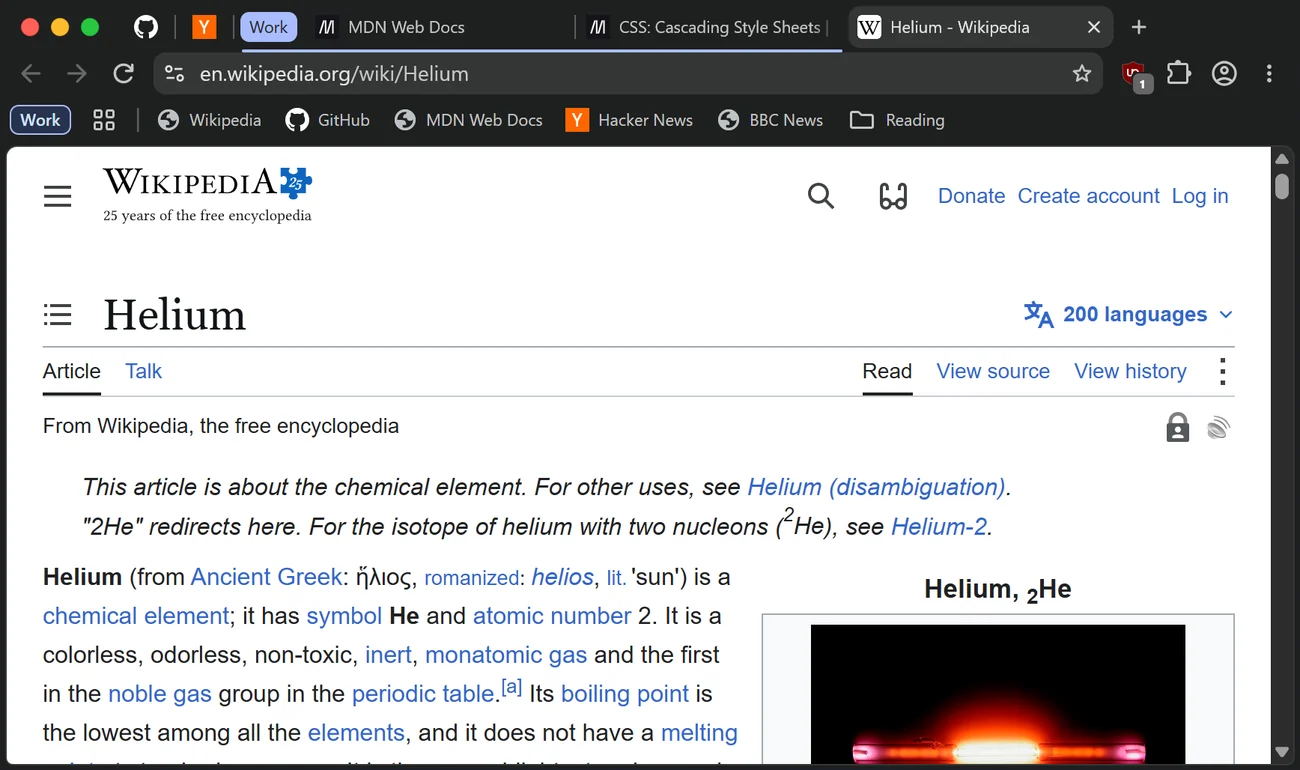
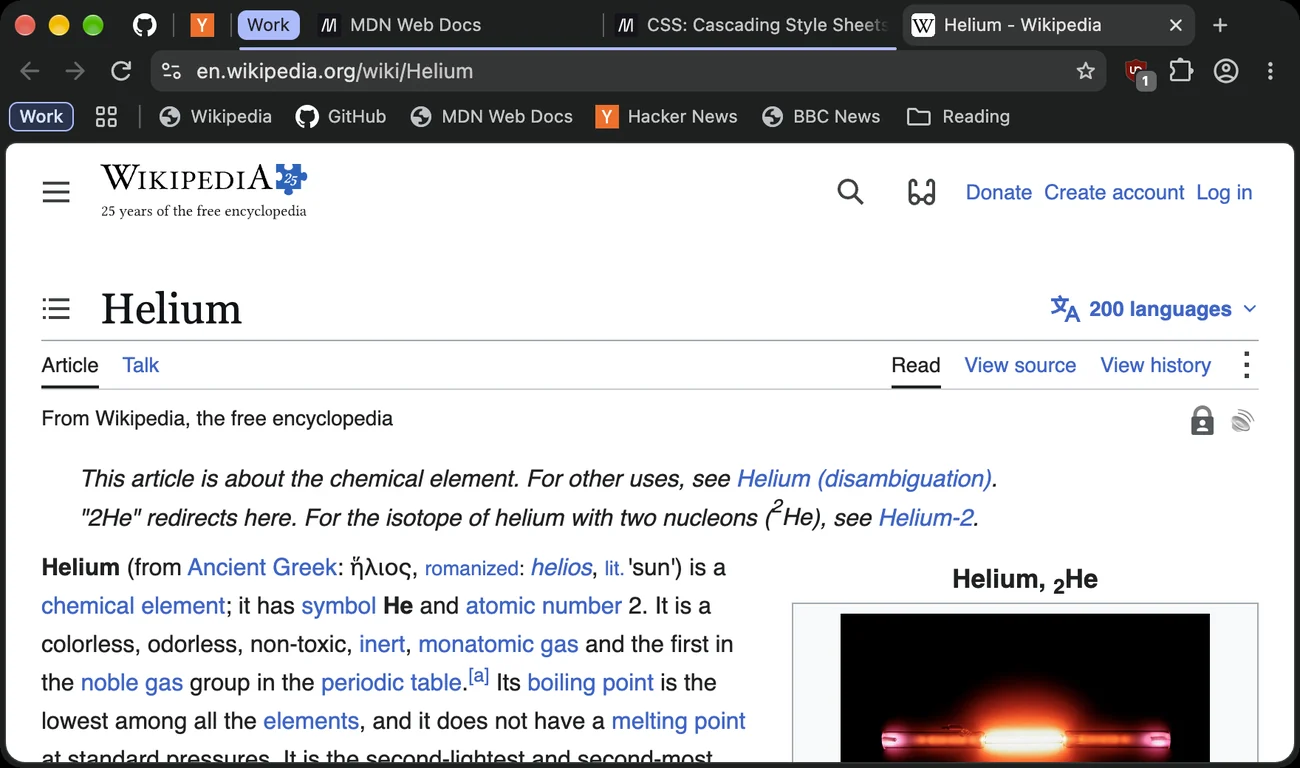
Real Mac pictures and fixes from the Mac test run
- Setup window: each computer shows Helium for its own system. The Mac
  pictures are real Mac captures (testing/lab/capture-helium-mac.sh, from
  the mac-check branch). The Mac extensions picture comes later.
- Capture scripts: the test probe removes itself before the extensions
  picture, so only real extensions show.
- Test Helium instances use a mock keychain and a basic password store:
  never the login Keychain on macOS.
- Mac computer name: "<name>'s MacBook Air" takes the person's name.
  Before, it kept the name of the Mac's first owner.
- Fix a flaky profile test: it used a new clock for each sync. The
  engine keeps its clock, so only the test was wrong.

Changed region(s): [[0.0, 0.0, 1.0, 1.0], [0.0, 0.5938, 0.7692, 1.0], [0.9846, 0.0, 1.0, 0.0312]]

diff --git a/internal/ui/page.html b/internal/ui/page.html
@@ -260,12 +260,19 @@ $("theme").onclick = () => {
 /* Real Helium pictures (captured from Helium: testing/lab/capture-helium.ps1). */
 const shotURL = (name) => `/img/${name}-${dark() ? "dark" : "light"}.webp`;
 const shot = (name, alt) => `<img class="shot" data-shot="${name}" src="${shotURL(name)}" width="1300" height="770" alt="${esc(alt)}" decoding="async">`;
-// Where each item is in the picture, in pixels of the 1736 × 1028 capture.
-const AREA = {
-  tabs: ["window", [0, 0, 1390, 70]], bookmarks: ["window", [0, 128, 1290, 192]], history: ["history", [56, 355, 1650, 872]],
-  settings: ["settings", [172, 437, 1534, 1022]], extensions: ["extensions", [452, 486, 1254, 808]],
+// Pictures per system. Each item's place, in pixels of the capture.
+const GEOM = {
+  win: { w: 1736, h: 1028, tabs: [0, 0, 1390, 70], bookmarks: [0, 128, 1290, 192], history: [56, 355, 1650, 872], settings: [172, 437, 1534, 1022], extensions: [452, 486, 1254, 1016] },
+  mac: { w: 1760, h: 1040, tabs: [0, 0, 1690, 68], bookmarks: [0, 126, 1390, 190], history: [54, 352, 1706, 870], settings: [198, 434, 1562, 1035], extensions: null },
 };
-const markStyle = ([x0, y0, x1, y1]) => `left:${x0 / 17.36}%;top:${y0 / 10.28}%;width:${(x1 - x0) / 17.36}%;height:${(y1 - y0) / 10.28}%`;
+const PAGE = { tabs: "window", bookmarks: "window", history: "history", settings: "settings", extensions: "extensions" };
+const sys = (mac) => (mac ? "mac" : "win");
+// The Mac extensions picture is not ready yet: Mac uses the Windows one.
+function picture(kind, mac) {
+  const tag = kind === "extensions" && mac && !GEOM.mac.extensions ? "win" : sys(mac);
+  return { name: `${PAGE[kind]}-${tag}`, g: GEOM[tag], box: GEOM[tag][kind] };
+}
+const markStyle = (g, [x0, y0, x1, y1]) => `left:${(x0 / g.w) * 100}%;top:${(y0 / g.h) * 100}%;width:${((x1 - x0) / g.w) * 100}%;height:${((y1 - y0) / g.h) * 100}%`;
 
 /* Words */
 const firstName = () => (state?.personName || "").trim().split(/\s+/)[0] || "";
@@ -310,7 +317,7 @@ function vHello() {
   const mac = state.os === "darwin";
   render("hello", `<div class="panel">
     <div class="stage hero" aria-hidden="true" style="border-radius:13px 13px 0 0">
-      <div class="shot-wrap back">${shot(mac ? "window" : "window-mac", "")}</div><div class="shot-wrap front">${shot(mac ? "window-mac" : "window", "")}</div>
+      <div class="shot-wrap back">${shot(mac ? "window-win" : "window-mac", "")}</div><div class="shot-wrap front">${shot(mac ? "window-mac" : "window-win", "")}</div>
     </div>
     <div class="pad gap">
       <div class="stack"><h1>What is your name?</h1><p class="t2">Helium Syncer keeps Helium the same on your Mac and your Windows computer. Your name stays on this computer.</p></div>
@@ -358,9 +365,9 @@ function vHow() {
   const name = firstName(), mac = state.os === "darwin";
   render("how", `<div class="panel">
     <div class="stage" style="border-radius:13px 13px 0 0"><div class="story" id="story" data-s="1">
-      <figure><div class="shot-wrap">${shot(mac ? "window-mac" : "window", "Helium on this computer")}<div class="closed" id="left-closed"><span>Helium is closed</span></div></div><figcaption>${svg("laptop")}This ${esc(thisKind())}</figcaption></figure>
+      <figure><div class="shot-wrap">${shot(mac ? "window-mac" : "window-win", "Helium on this computer")}<div class="closed" id="left-closed"><span>Helium is closed</span></div></div><figcaption>${svg("laptop")}This ${esc(thisKind())}</figcaption></figure>
       <div class="link-line" aria-hidden="true"><span class="token">${svg("lock")}</span></div>
-      <figure><div class="shot-wrap">${shot(mac ? "window" : "window-mac", "Helium on your other computer")}<div class="closed" id="right-closed"><span>Helium is closed</span></div></div><figcaption>${svg("laptop")}Your ${esc(otherKind())}</figcaption></figure>
+      <figure><div class="shot-wrap">${shot(mac ? "window-win" : "window-mac", "Helium on your other computer")}<div class="closed" id="right-closed"><span>Helium is closed</span></div></div><figcaption>${svg("laptop")}Your ${esc(otherKind())}</figcaption></figure>
     </div></div>
     <div class="pad gap">
       <h1>${name ? esc(name) + ", this" : "This"} is how it works</h1>
@@ -490,7 +497,7 @@ function wireKinds(prefix, onChange, onPick) {
 }
 function vWhat() {
   render("what", `<div class="panel">
-    <div class="stage" style="padding:20px 22px 22px;border-radius:13px 13px 0 0" aria-hidden="true"><div class="shot-wrap" id="what-shot">${shot("window", "")}<span class="mark" id="what-mark"></span></div></div>
+    <div class="stage" style="padding:20px 22px 22px;border-radius:13px 13px 0 0" aria-hidden="true"><div class="shot-wrap" id="what-shot">${shot(`window-${sys(state.os === "darwin")}`, "")}<span class="mark" id="what-mark"></span></div></div>
     <div class="pad gap">
       <div class="stack"><h1>What do you want to sync?</h1><p class="t2">You can change this later in Settings.</p></div>
       <div>${kindsHTML("k", state.off || [])}</div>
@@ -499,9 +506,9 @@ function vWhat() {
     </div>
   </div>`, () => {
     const pick = (k) => {
-      const [img, box] = AREA[k], el = $("what-shot").querySelector("img");
-      if (el.dataset.shot !== img) { el.dataset.shot = img; el.src = shotURL(img); }
-      $("what-mark").setAttribute("style", markStyle(box));
+      const pic = picture(k, state.os === "darwin"), el = $("what-shot").querySelector("img");
+      if (el.dataset.shot !== pic.name) { el.dataset.shot = pic.name; el.src = shotURL(pic.name); }
+      $("what-mark").setAttribute("style", markStyle(pic.g, pic.box));
       document.querySelectorAll(".kind").forEach((r) => r.setAttribute("aria-current", String(r.dataset.kind === k)));
     };
     wireKinds("k", null, pick); pick("bookmarks");

diff --git a/testing/lab/make-pictures.py b/testing/lab/make-pictures.py
@@ -1,59 +1,40 @@
-"""Turns the real Helium captures (testing/lab/capture-helium.ps1) into the
-pictures the setup window shows. Usage:
+"""Turns real Helium captures into the pictures the setup window shows.
 
-    python testing/lab/make-pictures.py <captures-dir> internal/ui/img
+    python testing/lab/make-pictures.py <windows-captures> <mac-captures> internal/ui/img
 
-Each picture is a whole Helium window. The setup window marks the part
-that matters (tab strip, bookmarks bar, ...) with a frame.
+Captures come from testing/lab/capture-helium.ps1 (Windows) and
+testing/lab/capture-helium-mac.sh (macOS): window, history, settings and
+extensions, each as <page>-<light|dark>.png, 1760 x 1040 (2x).
 
-The Mac window is the same Helium window with the macOS window buttons.
-Helium's own interface is the same on both systems.
+Output: <page>-win-<theme>.webp and <page>-mac-<theme>.webp. A Mac page
+that is missing is left out; the page then uses the Windows picture.
 """
 import os
 import sys
 
-from PIL import Image, ImageDraw
+from PIL import Image
 
-src, out = sys.argv[1], sys.argv[2]
+win_dir, mac_dir, out = sys.argv[1], sys.argv[2], sys.argv[3]
 os.makedirs(out, exist_ok=True)
 
-# The window inside a 2x capture (1760x1040). The left, right and bottom
-# edges are the Windows resize border, which is not part of the window.
-WINDOW = (12, 0, 1748, 1028)
+# The window inside each capture. On Windows the left, right and bottom
+# edges are the resize border, which is not part of the window.
+WINDOW = {"win": (12, 0, 1748, 1028), "mac": (0, 0, 1760, 1040)}
 WIDTH = 1300  # shown at about 650 px: sharp on 2x screens
 
 
 def save(img, name):
-    h = round(img.height * WIDTH / img.width)
-    img = img.resize((WIDTH, h), Image.LANCZOS)
+    img = img.resize((WIDTH, round(img.height * WIDTH / img.width)), Image.LANCZOS)
     path = os.path.join(out, name + ".webp")
     img.save(path, "WEBP", quality=86, method=6)
     print("saved", path, img.size, os.path.getsize(path) // 1024, "KB")
 
 
-def traffic_lights(strip):
-    """Paint the macOS window buttons on a 2x tab strip (supersampled)."""
-    ss = 4
-    w, h = strip.size
-    layer = Image.new("RGBA", (w * ss, h * ss), (0, 0, 0, 0))
-    d = ImageDraw.Draw(layer)
-    for i, (fill, ring) in enumerate([((255, 95, 87), (226, 70, 62)), ((254, 188, 46), (223, 158, 26)), ((40, 200, 64), (26, 170, 46))]):
-        cx, cy, r = (40 + 40 * i) * ss, 36 * ss, 12 * ss
-        d.ellipse((cx - r, cy - r, cx + r, cy + r), fill=ring)
-        d.ellipse((cx - r + ss, cy - r + ss, cx + r - ss, cy + r - ss), fill=fill)
-    strip.alpha_composite(layer.resize((w, h), Image.LANCZOS))
-
-
-for theme in ("light", "dark"):
-    for page in ("window", "history", "settings", "extensions"):
-        img = Image.open(os.path.join(src, f"{page}-{theme}.png")).convert("RGBA").crop(WINDOW)
-        save(img, f"{page}-{theme}")
-        if page == "window":
-            # Mac: macOS buttons on the left, no Windows buttons on the right.
-            w = img.width
-            strip = Image.new("RGBA", (w, 70), img.getpixel((w - 330, 8)))
-            strip.paste(img.crop((0, 3, 1400, 70)), (150, 3))  # rows 0-2: the Windows border line
-            traffic_lights(strip)
-            mac = img.copy()
-            mac.paste(strip, (0, 0))
-            save(mac, f"window-mac-{theme}")
+for tag, src in (("win", win_dir), ("mac", mac_dir)):
+    for theme in ("light", "dark"):
+        for page in ("window", "history", "settings", "extensions"):
+            path = os.path.join(src, f"{page}-{theme}.png")
+            if not os.path.exists(path):
+                print("missing", path)
+                continue
+            save(Image.open(path).convert("RGB").crop(WINDOW[tag]), f"{page}-{tag}-{theme}")

diff --git a/internal/merge/profiles_test.go b/internal/merge/profiles_test.go
@@ -45,12 +45,15 @@ func TestProfilesFirstJoinAddsNeverMerges(t *testing.T) {
 	winLinks := ProfileLinks{} // the user chose not to sync "Your Helium"
 	avatar := func(int) int { return 26 }
 	macState, winState := crdt.NewMap(), crdt.NewMap()
-	macBase, out, _, err := SyncProfiles(mac, macLinks, nil, map[string]json.RawMessage{}, macState, crdt.NewClock("mac", nil), nil, avatar)
+	// One clock per computer, kept between syncs, as the engine does. A new
+	// clock in the same millisecond could give a rename an older stamp.
+	macClock, winClock := crdt.NewClock("mac", nil), crdt.NewClock("win", nil)
+	macBase, out, _, err := SyncProfiles(mac, macLinks, nil, map[string]json.RawMessage{}, macState, macClock, nil, avatar)
 	if err != nil {
 		t.Fatal(err)
 	}
 	s.log = append(s.log, out...)
-	winBase, _, plan, err := SyncProfiles(win, winLinks, nil, map[string]json.RawMessage{}, winState, crdt.NewClock("win", nil), s.log, avatar)
+	winBase, _, plan, err := SyncProfiles(win, winLinks, nil, map[string]json.RawMessage{}, winState, winClock, s.log, avatar)
 	if err != nil {
 		t.Fatal(err)
 	}
@@ -63,10 +66,9 @@ func TestProfilesFirstJoinAddsNeverMerges(t *testing.T) {
 	if err := profiles.Rename(mac, "Profile 1", "Work 💼"); err != nil {
 		t.Fatal(err)
 	}
-	macClock := crdt.NewClock("mac", nil)
 	_, out, _, _ = SyncProfiles(mac, macLinks, nil, macBase, macState, macClock, nil, avatar)
 	s.log = append(s.log, out...)
-	winBase, _, plan, _ = SyncProfiles(win, winLinks, nil, winBase, winState, crdt.NewClock("win", nil), out, avatar)
+	winBase, _, plan, _ = SyncProfiles(win, winLinks, nil, winBase, winState, winClock, out, avatar)
 	found := false
 	for _, n := range names(t, win) {
 		found = found || n == "Work 💼"
@@ -81,7 +83,7 @@ func TestProfilesFirstJoinAddsNeverMerges(t *testing.T) {
 	os.WriteFile(filepath.Join(mac, "Local State"), ls, 0o600)
 	macLinks["Default"] = "gone" // simulate the stale link the engine had
 	_, out, _, _ = SyncProfiles(mac, macLinks, nil, macBase, macState, macClock, nil, avatar)
-	_, _, plan, _ = SyncProfiles(win, winLinks, nil, winBase, winState, crdt.NewClock("win", nil), out, avatar)
+	_, _, plan, _ = SyncProfiles(win, winLinks, nil, winBase, winState, winClock, out, avatar)
 	if len(names(t, win)) != 3 {
 		t.Fatalf("a profile deleted elsewhere must not be deleted here: %v", names(t, win))
 	}

diff --git a/internal/app/app.go b/internal/app/app.go
@@ -234,10 +234,10 @@ func DefaultDeviceName(person string) string {
 		// macOS keeps a friendly name, e.g. "Rishabh's MacBook Air".
 		if out, err := exec.Command("/usr/sbin/scutil", "--get", "ComputerName").Output(); err == nil {
 			if n := strings.TrimSpace(string(out)); n != "" {
-				if strings.Contains(n, "'s ") || strings.Contains(n, "’s ") || person == "" {
+				if person == "" {
 					return n
 				}
-				kind = n // e.g. "MacBook Air" -> "Priya's MacBook Air"
+				kind = macModel(n)
 			}
 		}
 	}
@@ -245,6 +245,17 @@ func DefaultDeviceName(person string) string {
 		return person + "'s " + kind
 	}
 	return "My " + kind
+}
+
+// macModel takes the model part of a macOS computer name:
+// "Ann's MacBook Air" -> "MacBook Air"; "MacBook Air" stays as it is.
+func macModel(name string) string {
+	for _, sep := range []string{"'s ", "’s "} {
+		if i := strings.Index(name, sep); i >= 0 && strings.TrimSpace(name[i+len(sep):]) != "" {
+			return strings.TrimSpace(name[i+len(sep):])
+		}
+	}
+	return name
 }
 
 func computerKind() string {

diff --git a/internal/ui/server_test.go b/internal/ui/server_test.go
@@ -38,8 +38,8 @@ func TestOnlyThePageCanTalkToTheServer(t *testing.T) {
 		{"form post", "POST", probe, map[string]string{"X-Key": s.key, "Content-Type": "application/x-www-form-urlencoded"}, "", 415},
 		{"json post", "POST", probe, map[string]string{"X-Key": s.key, "Content-Type": "application/json", "Origin": base}, "", 400},
 		{"other paths", "GET", "/secret", nil, "", 404},
-		{"a picture", "GET", "/img/window-light.webp", nil, "", 200},
-		{"a picture from another host name", "GET", "/img/window-light.webp", nil, "evil.example:80", 403},
+		{"a picture", "GET", "/img/window-win-light.webp", nil, "", 200},
+		{"a picture from another host name", "GET", "/img/window-win-light.webp", nil, "evil.example:80", 403},
 		{"no other files", "GET", "/img/../page.html", nil, "", 404},
 	}
 	for _, c := range cases {

diff --git a/internal/app/cache_test.go b/internal/app/cache_test.go
@@ -1,6 +1,7 @@
 package app
 
 import (
+	"strings"
 	"testing"
 	"time"
 )
@@ -29,5 +30,19 @@ func TestLoadCachedSeesChanges(t *testing.T) {
 	c.Save()
 	if got, _ := LoadCached(); got.DeviceName != "Two" || got.Battery != "plugged" {
 		t.Fatalf("change not seen: %+v", got)
+	}
+}
+
+func TestMacModel(t *testing.T) {
+	for in, want := range map[string]string{
+		"Rishabh's MacBook Air":      "MacBook Air",
+		"Rishabh\u2019s MacBook Pro": "MacBook Pro",
+		"MacBook Air":                "MacBook Air",
+		"Studio":                     "Studio",
+		"Ann's ":                     "Ann's",
+	} {
+		if got := macModel(strings.TrimSpace(in)); got != want {
+			t.Errorf("%q: got %q, want %q", in, got, want)
+		}
 	}
 }

diff --git a/internal/testkit/testkit.go b/internal/testkit/testkit.go
@@ -47,6 +47,9 @@ func Start(ctx context.Context, o Options) (*Instance, error) {
 		"--user-data-dir=" + o.UserDataDir,
 		fmt.Sprintf("--remote-debugging-port=%d", o.Port),
 		"--no-first-run", "--no-default-browser-check", "--window-size=900,600",
+		// Never the person's login Keychain (macOS) or keyring (Linux): a test
+		// instance keeps its secrets in its own test folder.
+		"--use-mock-keychain", "--password-store=basic",
 	}
 	if o.ProbeDir != "" {
 		args = append(args, "--load-extension="+o.ProbeDir)
